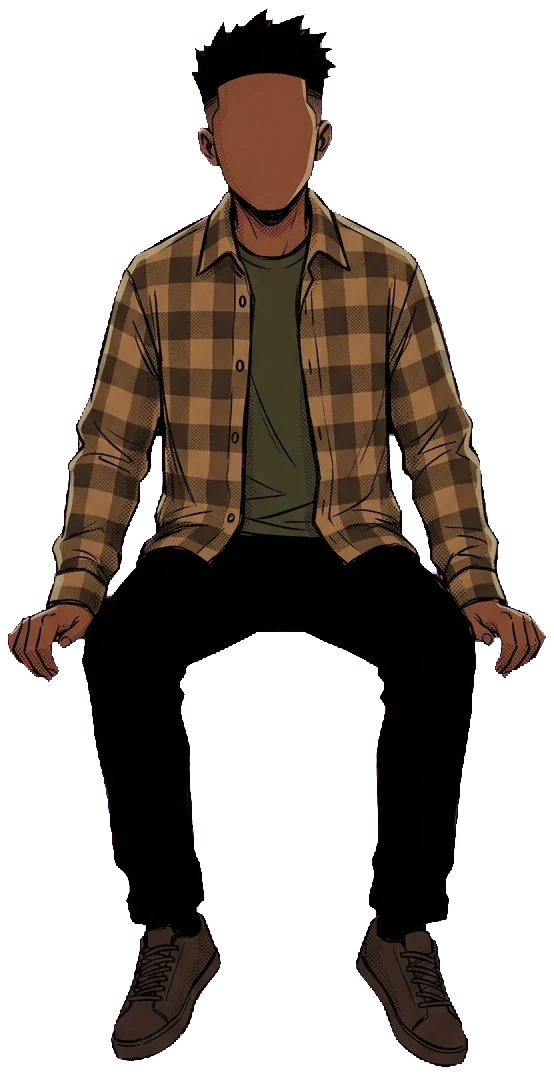
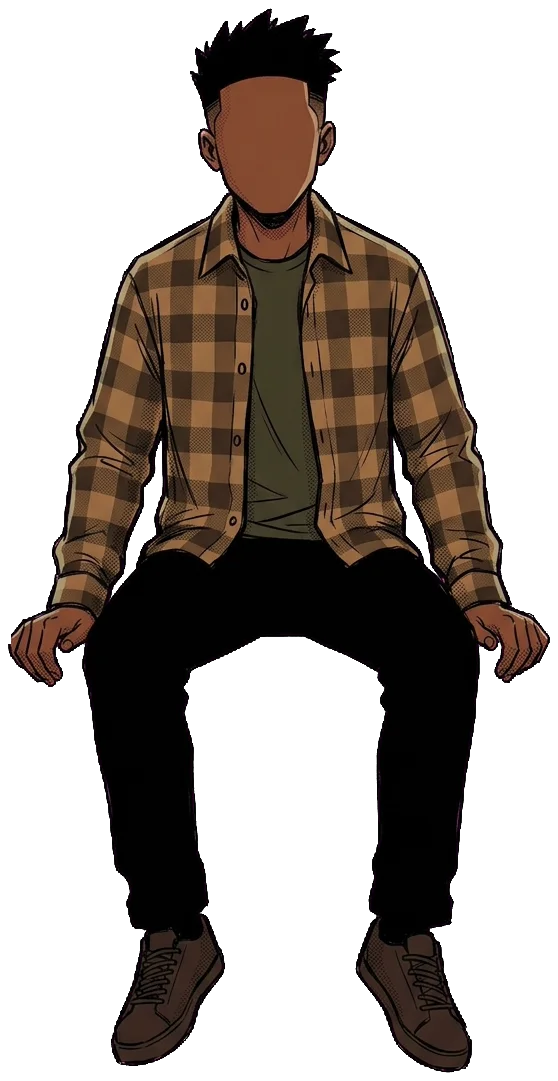
fix: re-cut character poses without eroding the ink outline
The cutout eroded the alpha edge 2px to hide JPEG's pink fringe, which ate
the black outline and blunted the hair. Keep every edge pixel and recolour
magenta-tinted fringe pixels instead; erase Gemini's ledge lines in the hang
and sit poses explicitly (the erosion used to remove them by accident).

diff --git a/components/Pose.tsx b/components/Pose.tsx
@@ -2,12 +2,12 @@
 // the image carries no information, so it is hidden from assistive tech.
 
 export const POSES = {
-  wave: { w: 437, h: 1066 },
-  hang: { w: 329, h: 1060 },
-  point: { w: 610, h: 1086 },
-  sit: { w: 554, h: 1076 },
-  peek: { w: 599, h: 1200 },
-  thumbs: { w: 490, h: 1083 },
+  wave: { w: 442, h: 1072 },
+  hang: { w: 335, h: 1065 },
+  point: { w: 615, h: 1091 },
+  sit: { w: 558, h: 1081 },
+  peek: { w: 604, h: 1200 },
+  thumbs: { w: 495, h: 1089 },
 } as const;
 
 export type PoseName = keyof typeof POSES;

diff --git a/components/ProjectCard.tsx b/components/ProjectCard.tsx
@@ -22,7 +22,7 @@ export function StagedPose({ staging }: { staging: Staging }) {
 
   if (how === "sit") {
     return (
-      <div className={`relative mx-auto aspect-[554/1076] ${poseHeight}`}>
+      <div className={`relative mx-auto aspect-[558/1081] ${poseHeight}`}>
         {/* the ledge he sits on; the seat line is at ~59% of the pose */}
         <span
           aria-hidden="true"
